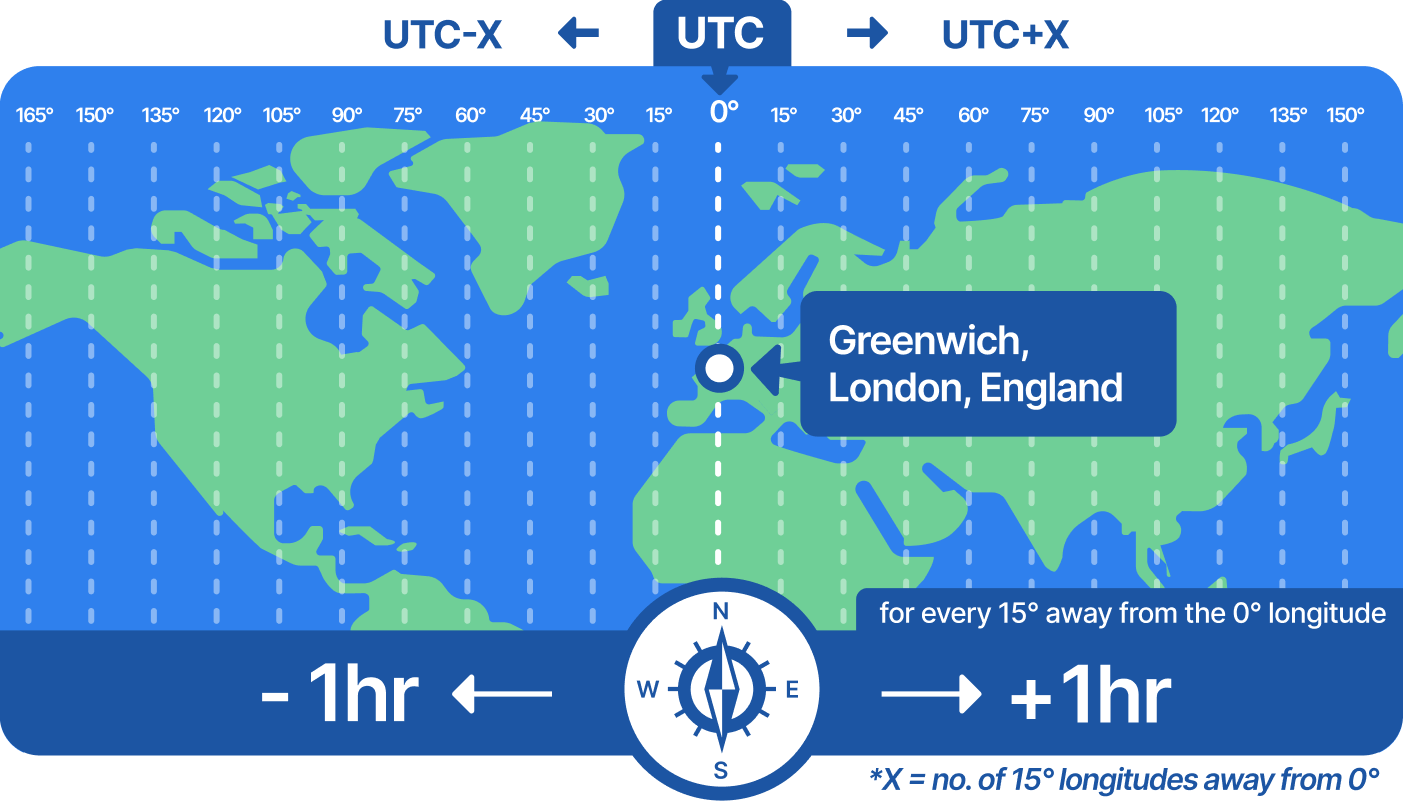
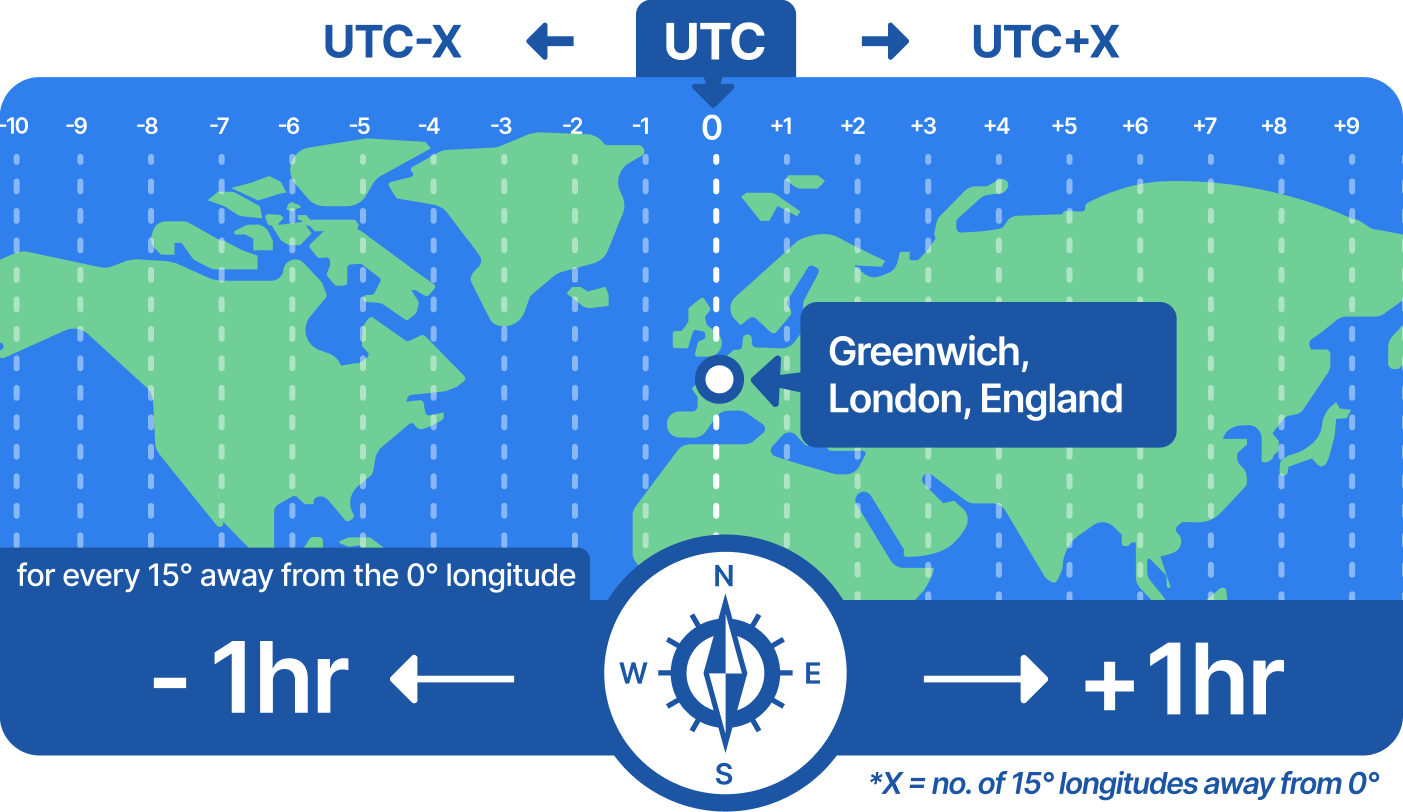
add counting timezones section and update timezone works img

Changed region(s): [[0.0, 0.0, 1.0, 1.0], [0.9808, 0.0936, 1.0, 0.1248]]

diff --git a/index.html b/index.html
@@ -90,17 +90,17 @@
     <img src="./img/separator.png" alt="" class="separator">
     <div class="info-container">
         <div class="info-text">
-            <div class="exceptions">
+            <div class="exceptions day-night">
                 <h3 class="info-header">It's 5AM for you but 9PM for your friend abroad. Why?</h3>
                 <p class="info-soln">Earth is a ball. The Sun can only light half of the Earth at a time, so noon for you is midnight for someone else.</p>
-                <img class="day-night" src="./img/day-night.png" alt="">
-            </div>
-            <div class="why">
-                <h3>What if the whole world used one clock?</h3>
-                <p>5:00 AM would be pitch dark for someone whereas noon for someone.</p>
-                <p>Offices, schools would start in the middle of the night in some places.</p>
-                <p>Thus, each region keeps its own clock, so that 5:00 AM means morning for every place. These regions are known as TIMEZONES.</p>
-            </div>
+                <img class="day-night-img" src="./img/day-night.png" alt="">
+            </div>  
+           
+            <h3>What is a timezone?</h3>
+            <p>A timezone is a region where everyone uses the same clock time, which is set so that noon is roughly the time when the sun is highest in the sky.</p>
+            <p>Timezones ensure that our mornings feel like mornings and nights feel like nights, wherever we live.</p>
+            <br>
+            
             <h3>How do timezones work?</h3>
             <div class="earth-spin">
                 <img class="earth-gif" src="./img/earth.gif" alt="">
@@ -110,23 +110,39 @@
                         <div class="calcn-container">
                             <span class="calcn-info">Rotation per hour:</span>
                             <div class="calcn">
-                                <div class="fracn">
-                                    <span class="num">360°</span>
-                                    <span class="deno">24hrs</span>
-                                </div> 
-                                <span>=</span>
-                                <span class="ans">15°/hr</span>
+                                <p class="ans">360° ÷ 24hrs = 15°/hr</p>
                             </div>
                         </div>
                         <img class="earth-gif-phone" src="./img/earth.gif" alt="">
                     </div>
-                    <p style="margin-top: 20px;">So, in 1 hour the sun moves across 15° of longitude.</p>
                 </div>                
             </div>
             <div class="utc">
-                <p>Thus, for timezones, the Earth is divided into 24 zones based on 15° increments in the longitude.</p>           
-                <p>Each of these 24 zones is given a time of its own, and time is measured relative to the <a href="#prime-meridian">:Prime Meridian</a></p>
-                <p>The time at the Prime Meridian is considered as the Global Standard Clock. It is known as <a href="#utc">:UTC</a>, the time at Greenwich, London.</p>
+                <p>So for every 15° you move east or west, the time shifts by an hour.</p>
+
+                <p style="text-align: center;" class="ans">360° ÷ 15° = 24 zones</p>
+
+                <p> So, the Earth is split into 24 timezones.</p>
+                
+                <h4>Where does the counting start for timezones?</h4>
+                <p>We need a reference longitude to measure timezones. Thus, the longitude passing through Greenwich, London is considered the <a href="#prime-meridian">:Prime Meridian</a>, the reference line for all timezones.</p>
+                <p>The reference clock, based on the Prime Meridian, is called <a href="#utc">:UTC</a>.</p>
+                <p>Each and every timezone is written as its distance from UTC.</p>
+                <div class="exceptions east-west">
+                    <div class="west">
+                        <p>UTC-5:00</p>
+                        <span>5 hours behind UTC</span>
+                    </div>
+                    <p class="arrow"><-</p>
+                    <div class="utc-txt">UTC</div>
+                    <p class="arrow">-></p>
+                    <div class="east">
+                        <p>UTC+5:00</p>
+                        <span>5 hours ahead of UTC</span>
+                    </div>
+                </div>
+                <p>The Sun rises in the east first, so places east of the Prime Meridian are ahead (+) and places west are behind (-).</p>
+
             </div>
             <div class="summary-graphic">
                 <p class="summary-txt">theoretical</p>
@@ -135,7 +151,7 @@
         </div>
         <div class="info">
             <h1 class="info-head">BUT</h1>
-            <h3 class="info-subhead">The timezone map is <span class="red-txt">not</span></br> so straightforward IRL.</h3>
+            <h3 class="info-subhead">Timezones are <span class="red-txt">not</span></br> so straightforward IRL.</h3>
         </div>
         <div class="exceptions">
             <h3>non-standard offsets</h3>

diff --git a/style.css b/style.css
@@ -436,8 +436,12 @@ body {
     margin-bottom: 30px;
 }
 
-.day-night {
+.day-night-img {
     margin-top: 20px;
+}
+
+.day-night {
+    margin-bottom: 50px !important;
 }
 
 .earth-spin {
@@ -492,23 +496,58 @@ a:hover {
     font-size: 1.1rem;
 }
 
-.fracn {
-    display: flex;
-    flex-direction: column;
-    align-items: center;
-    gap: 5px;
-}
-
-.num {
-    padding-bottom: 5px;
-    border-bottom: 1.9px solid #555555;
-}
-
 .ans {
-    font-weight: bold;
-    font-size: 1.3rem;
+    font-weight: 500;
+    font-size: 1.5rem !important;
 }
 
+.east-west {
+    display: flex;
+    align-items: stretch;
+    padding: 0 !important;
+    font-size: 1rem;
+    border-color: #1c55a3 !important;
+    background-color: #3080ed !important;
+    overflow: hidden;
+}
+
+.east-west > * {
+    display: flex;
+    align-items: center;
+    justify-content: center;
+    margin: 0;
+    padding: 20px 10px;
+    color: #ffffff;
+    text-align: center;
+}
+
+.utc-txt {
+    background-color: #3080ed;
+    flex: 0.5;
+    font-size: 1.2rem;
+    font-weight: 700;
+}
+.arrow {
+    background-color: #3080ed;
+    flex: 0.5;
+    font-weight: 800;
+}
+
+.east, .west {
+    flex-direction: column;
+    background-color: #1c55a3 !important;
+    flex: 3;
+}
+
+.east-west p {
+    margin: 0 !important;
+}
+
+h4 {
+    font-size: 1.3rem;
+    margin-bottom: 10px;
+    margin-top: 20px;
+}
 .earth-gif {
     width: 240px;
     margin: 25px 0px;
@@ -560,6 +599,10 @@ a:hover {
 
 ul {
     padding-left: 20px;
+}
+
+.nutshell-bubble-from {
+    display: none;
 }
 
 @media screen and (max-width: 768px){
@@ -652,6 +695,11 @@ ul {
     .earth-gif {
         display: none;
     }
+
+    .day-night-img {
+        width: 100%;
+    }
+
     .earth-gif-phone {
         width: 120px;
         display: inline;
@@ -667,5 +715,9 @@ ul {
         flex-direction:row-reverse;
         gap: 20px;
         justify-content: center;
+    }
+
+    .east-west {
+        display: none;
     }
 }
